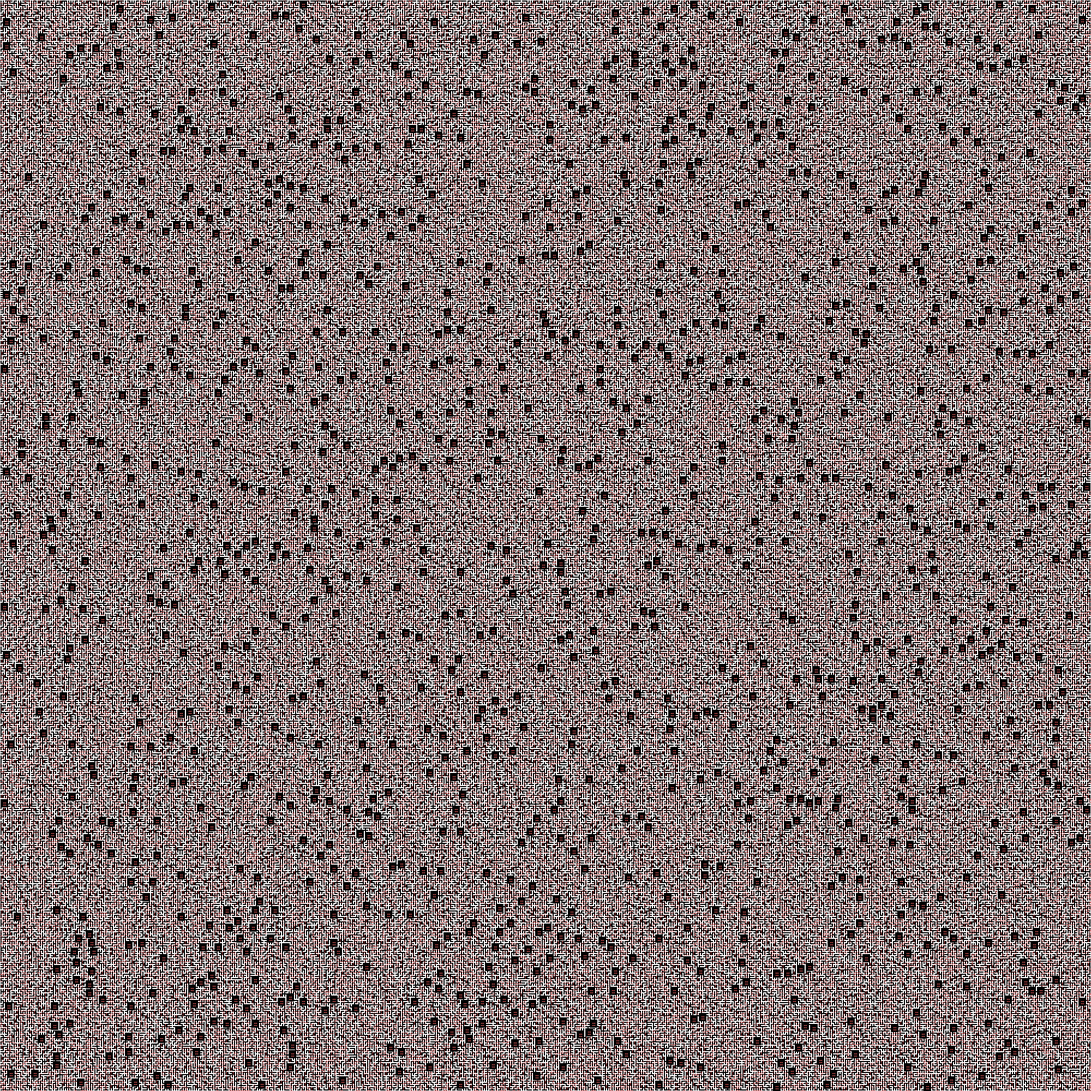
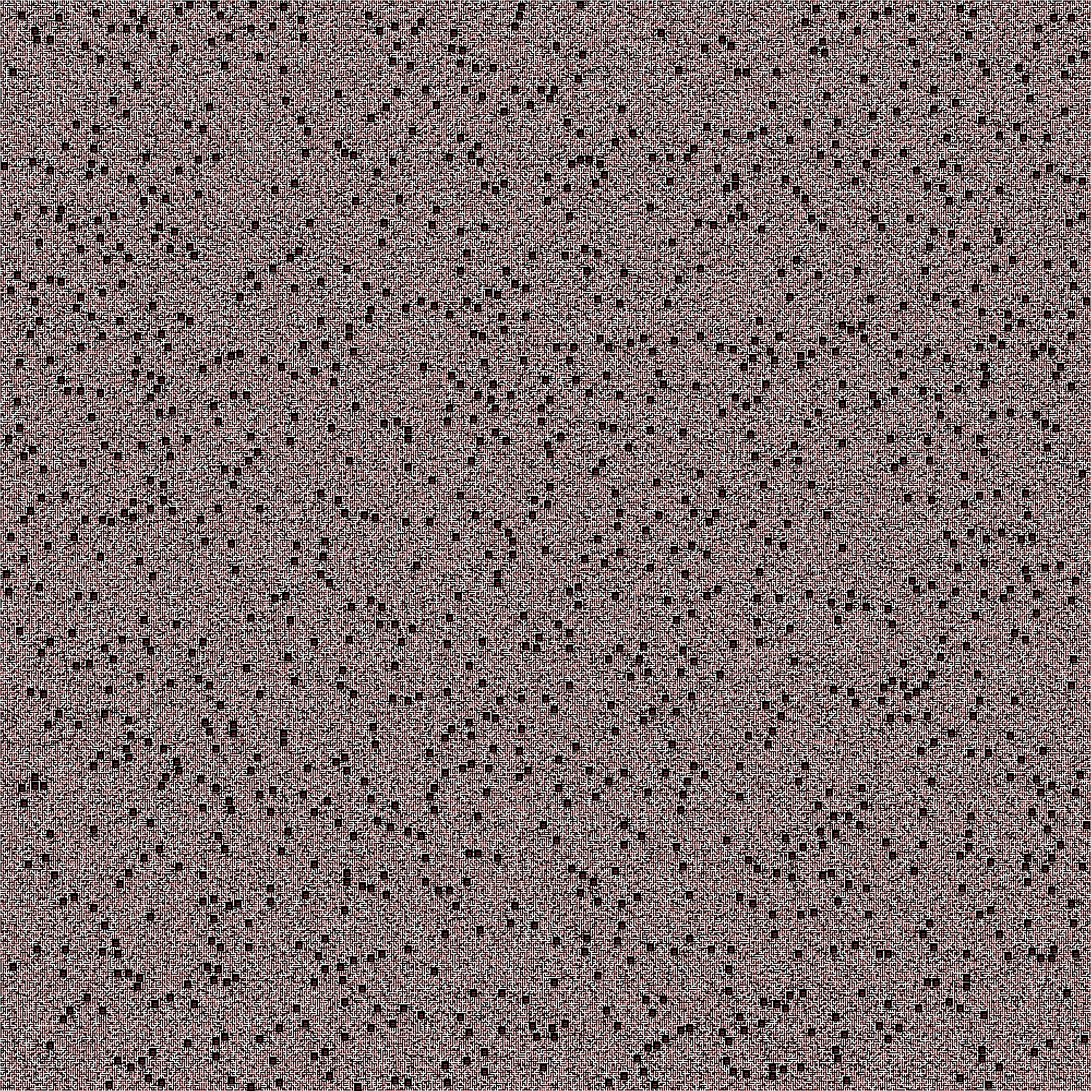
Readded redunant connections

diff --git a/src/main.rs b/src/main.rs
@@ -20,7 +20,7 @@ fn main() {
 
 	let mut random = random::Random::new();
 	let (player_id, mut world) = world::generate::WorldGenerator::new(500, 500)
-		.generate(&mut random, Vec2::one() * 2.5);
+		.generate(&mut random, Vec2::one() * 502.5);
 
 	world.to_image("output_maze.png");	
 
@@ -95,31 +95,6 @@ fn main() {
 			width, height, &mut buffer,
 			aspect
 		);
-
-		for (_, entity) in world.entities() {
-			let diff = entity.pos - cam_pos;
-			let inverted = inv_cam_matrix * diff;
-
-			if inverted.y >= 0.05 {
-				let mut draw = true;
-				raycast::raycast(raycast::Raycast {
-					x: cam_pos.x,
-					y: cam_pos.y,
-					dx: diff.x,
-					dy: diff.y,
-					max_distance: 1.0,
-				}, |_, x, y, _, _, _| if world.tiles.tile_is_colliding(x, y) {
-					draw = false;
-					false
-				} else {
-					true
-				});
-
-				if draw {
-					// &textures.textures[entity.texture]
-				}
-			}
-		}
 
 		frame_rate[frame_rate_index] = instant.elapsed().as_secs_f32();
 

diff --git a/src/world/generate.rs b/src/world/generate.rs
@@ -215,6 +215,15 @@ impl WorldGenerator {
 			let (room_x, room_y) = match empty_spots.len() {
 				0 => {
 					if !rooms.square_is_empty(loose_end.from_x + off_x, loose_end.from_y + off_y, 1, 1) {
+						if random.get_float() < 0.05 {
+							if let Some(room) = rooms.get_mut(loose_end.from_x + off_x, loose_end.from_y + off_y) {
+								*room.as_mut().unwrap()
+									.get_dir_mut(loose_end.direction.inverted()) = true;
+								*rooms.get_mut(loose_end.from_x, loose_end.from_y).unwrap()
+									.as_mut().unwrap()
+									.get_dir_mut(loose_end.direction) = true;
+							}
+						}
 						continue 'main_generator;
 					}
 
